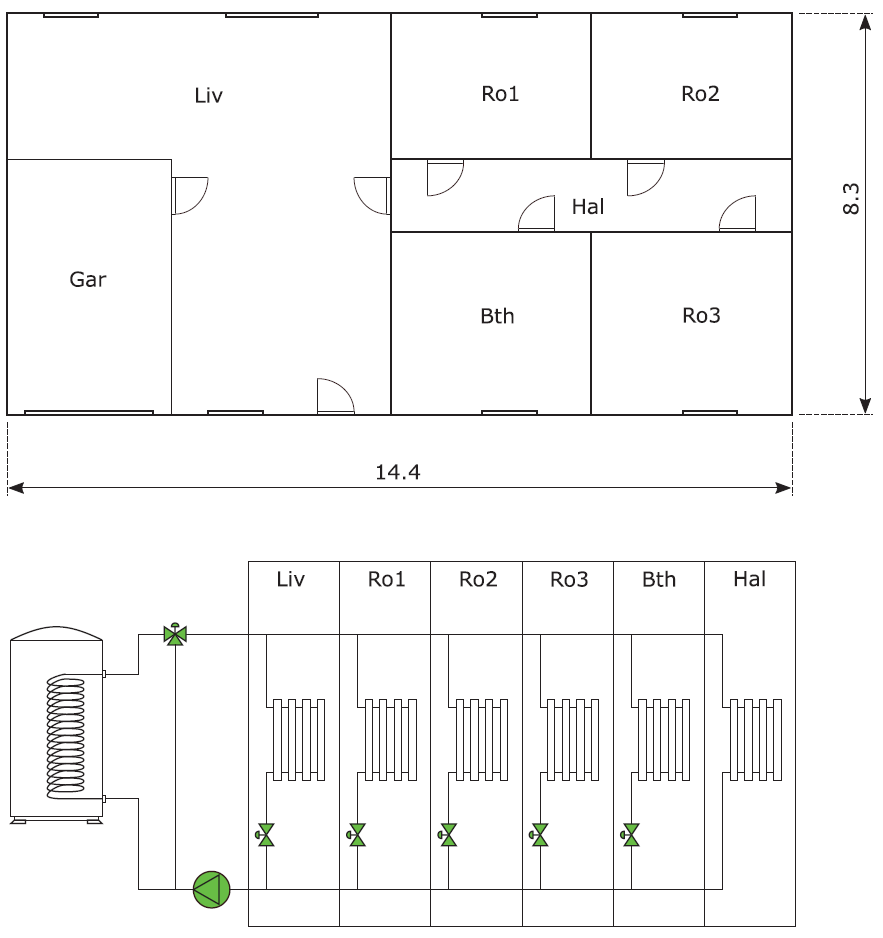
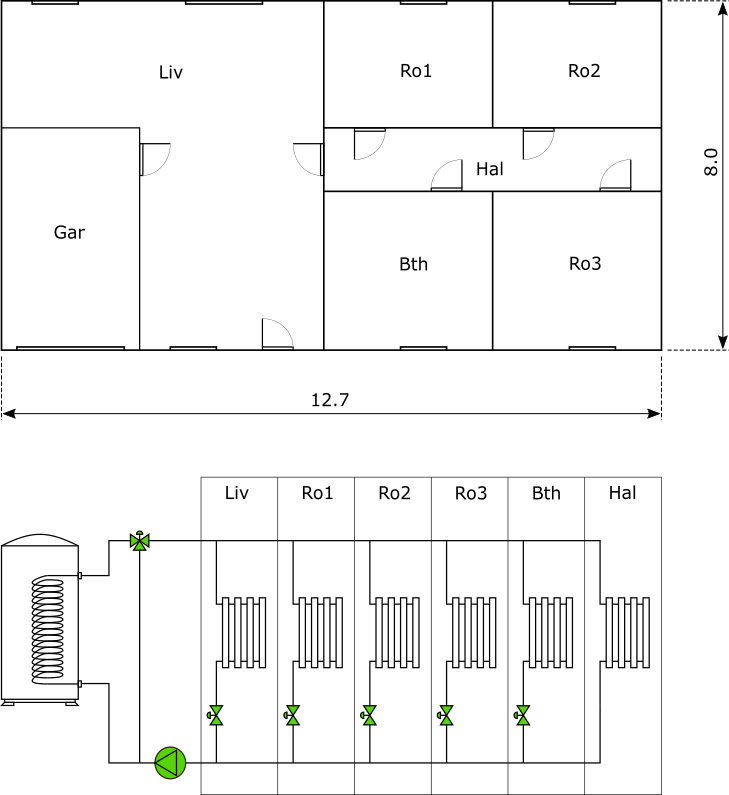
Pring updated test case documentation.

diff --git a/testcases/multizone_residential_hydronic/doc/MultiZoneResidentialHydronic.html b/testcases/multizone_residential_hydronic/doc/MultiZoneResidentialHydronic.html
@@ -1,4 +1,52 @@
+<!DOCTYPE HTML PUBLIC "-//W3C//DTD HTML 4.01 Transitional//EN" "http://www.w3.org/TR/html4/loose.dtd">
 <html>
+<head>
+<title>MultiZoneResidentialHydronic.TestCase</title>
+<meta name="HTML-Generator" content="Dymola">
+<meta http-equiv="Content-Type" content="text/html; charset=utf-8">
+<meta name="description" content="&quot;Multi zone residential hydronic example model&quot;">
+<style type="text/css">
+*       { font-size: 100%; font-family: Arial, sans-serif; }
+.modelica, .modelica * { font-size: 90%; font-family: Courier, monospace; white-space: pre; } /* For the Modelica code (in exported html). */
+h4      { font-size: 100%; font-weight: bold; color: green; } 
+h3      { font-size: 110%; font-weight: bold; color: green; }
+h2      { font-size: 130%; font-weight: bold; color: green; }
+address { font-weight: normal; }
+td      { padding: 2px; border: 1px solid #808080; vertical-align: top; }
+th      { padding: 2px; border: 1px solid #808080; vertical-align: top; font-weight: bold; }
+table   { border: 1px solid #808080; border-collapse: collapse; }
+pre, code {font-family: "Courier New", monospace;}
+pre {white-space: pre; overflow-x : hidden;}
+.ModelicaDescription {font-weight: bold;} /* For the description string of the class. */
+.ModelicaBaseClass {} /* For the list of base-classes at the of the description. */
+.ModelicaKeyword { color: blue; font-weight: normal; font-style: normal; } /* Keywords in Modelica. */
+.ModelicaComment { color: #006400;  font-weight: normal; font-style: normal;} /* All three variants of comments in Modelica.  */
+.ModelicaString { color: #006400;  font-weight: normal; font-style: normal;} /* String constants. */
+.ModelicaClass { color: red; font-weight: normal; font-style: normal;} /* Formatting the names of referenced classes (for base-class and components). */
+.ModelicaFunction { color: red; font-weight: normal; font-style: normal;} /* Formatting for called functions. */
+.ModelicaTablePackageContent { } /* The table of contents for each package. */
+.ModelicaTableCrossReference { } /* The optional cross-reference table. */
+.ModelicaTableInputs {} /* The table of inputs for a function. */
+.ModelicaTableOutputs {} /* The table of outputs for a function. */
+.ModelicaTableParameters {} /* The table of parameters for a model/block. */
+.ModelicaTableConnectors {} /* The table of connectors for a model/block. */
+.ModelicaTableContents {} /* The table of contents for a connector. */
+.ModelicaStartAttribute { font-weight: bold; } /* The formatting used for start-attribute in the table of parameters, to separate them from parameter values. */
+.ModelicaParameterTab { background-color: #c0c0c0; font-weight: bold; } /* The tab-heading in the table of parameters */
+.ModelicaParameterGroup { background-color: #e0e0e0; } /* The group-heading in the table of parameters */
+</style>
+</head>
+<body>
+<!--[if supportFields]><span style="mso-element:field-begin"></span>
+<span style="mso-spacerun:yes"></span>XE TestCase<![endif]-->
+<!--[if supportFields]><span style="mso-element:field-end"></span><![endif]-->
+<h2><img src="MultiZoneResidentialHydronic.TestCaseI.png" alt="MultiZoneResidentialHydronic.TestCase" align="right" style="border: 1px solid" width="80" height="80">
+<a name="MultiZoneResidentialHydronic.TestCase"></a>MultiZoneResidentialHydronic.TestCase</h2>
+<p>
+<span class="ModelicaDescription">Multi zone residential hydronic example model</span>
+</p>
+<h3>Information</h3>
+
 <p>
 This is the multi zone residential hydronic emulator model
 of BOPTEST.
@@ -10,20 +58,20 @@ The emulator building model represents a residential French
 dwelling compliant with the French Thermal regulation of 2012,
 i.e. the French national building energy regulation. Therefore,
 the typology is defined to be representative of French new
-dwellings. Its area is approximately 120 m&sup2; (<i>S_ref</i>).
+dwellings. Its area is approximately 100 m&sup2; (<i>S_ref</i>).
 The following figure shows the building layout and
 a sketch of the hydraulic system. The coloured elements in the scheme
 represent the controllable components
 through the BOPTEST interface. The dimensions are provided in metres.
 
 </p>
-<p align=\"center\">
-<img alt=\"Simulated residential dwelling\"
+<p align="center">
+<img alt="Simulated residential dwelling"
 src="images/layout.png">
 </p>
 
 <p>
-The orientation of the building was chosen to maximize the natural light during winter.
+The orientation of each building was chosen to maximize the natural light during winter.
 Thus, the main surface of windows of the building is south oriented.
 The building consists of six thermal zones that are actively controlled and two unconditioned
 zones:
@@ -43,42 +91,42 @@ modes existing on the market. Thus, each of these modes was characterized
 by a different level of insulation (Table 1).
 </p>
 
-<p><span style=\"font-family: Arial,sans-serif;\">Table 1.Building envelope characteristic</span> </p>
-<table cellspacing=\"0\" cellpadding=\"2\" border=\"1\" width=\"100%\"><tr>
-<td><p><br><b><span style=\"font-family: Arial,sans-serif; font-size: 10pt;\">Wall type </span></b></p></td>
-<td><p><b><span style=\"font-family: Arial,sans-serif; font-size: 10pt;\">Characteristics</span></b></p></td>
+<p><span style="font-family: Arial,sans-serif;">Table 1.Building envelope characteristic</span> </p>
+<table cellspacing="0" cellpadding="2" border="1" width="100%"><tr>
+<td><p><br><b><span style="font-family: Arial,sans-serif; font-size: 10pt;">Wall type </span></b></p></td>
+<td><p><b><span style="font-family: Arial,sans-serif; font-size: 10pt;">Characteristics</span></b></p></td>
 </tr>
 <tr>
-<td><p><b><span style=\"font-family: Arial,sans-serif; font-size: 10pt;\">External wall</span></b></p></td>
-<td><p><span style=\"font-family: Arial,sans-serif; font-size: 10pt;\">Brick (200 mm, &lambda;=0.2 W/mK) + polystyrene (80 mm, &lambda;=0.032 W/mK)</span></p></td>
-</tr>
-<tr>
-<td></td>
-<td><p><br><br><br><b><span style=\"font-family: Arial,sans-serif; font-size: 10pt;\">U = 0.272 W.m<sup>-2</sup>.K<sup>-1</span></b></sup></p></td>
-</tr>
-<tr>
-<td><p><b><span style=\"font-family: Arial,sans-serif; font-size: 10pt;\">Floor</span></b></p></td>
-<td><p><span style=\"font-family: Arial,sans-serif; font-size: 10pt;\">Hollow block (150 mm, &lambda;=0.92 W/mK) + polyurethane (60 mm, &lambda;=0.022 W/mK)</span></p></td>
+<td><p><b><span style="font-family: Arial,sans-serif; font-size: 10pt;">External wall</span></b></p></td>
+<td><p><span style="font-family: Arial,sans-serif; font-size: 10pt;">Brick (200 mm, &lambda;=0.2 W/mK) + polystyrene (80 mm, &lambda;=0.032 W/mK)</span></p></td>
 </tr>
 <tr>
 <td></td>
-<td><p><br><br><b><span style=\"font-family: Arial,sans-serif; font-size: 10pt;\">U<sub>e</sub> = 0.327 W.m<sup>-2</sup>.K<sup>-1</span></b></sup></p></td>
+<td><p><br><br><br><b><span style="font-family: Arial,sans-serif; font-size: 10pt;">U = 0.272 W.m<sup>-2</sup>.K<sup>-1</span></b></sup></p></td>
 </tr>
 <tr>
-<td><p><b><span style=\"font-family: Arial,sans-serif; font-size: 10pt;\">Ceiling</span></b></p></td>
-<td><p><span style=\"font-family: Arial,sans-serif; font-size: 10pt;\">Glass wool (200 mm, &lambda;=0.04 W/mK)</span></p></td>
-</tr>
-<tr>
-<td></td>
-<td><p><br><br><b><span style=\"font-family: Arial,sans-serif; font-size: 10pt;\">U = 0.193 W.m<sup>-2</sup>.K<sup>-1</span></b></sup></p></td>
-</tr>
-<tr>
-<td><p><b><span style=\"font-family: Arial,sans-serif; font-size: 10pt;\">Fenestration</span></b></p></td>
-<td><p><span style=\"font-size: 10pt;\">Double glazing with Argon and PVC frame 4/16/4, <span style=\"font-family: Arial,sans-serif;\">Planitherm glass g=0.6, TL=76&percnt; with external solar protection</span></p></td>
+<td><p><b><span style="font-family: Arial,sans-serif; font-size: 10pt;">Floor</span></b></p></td>
+<td><p><span style="font-family: Arial,sans-serif; font-size: 10pt;">Hollow block (150 mm, &lambda;=0.92 W/mK) + polyurethane (60 mm, &lambda;=0.022 W/mK)</span></p></td>
 </tr>
 <tr>
 <td></td>
-<td><p><br><br><b><span style=\"font-family: Arial,sans-serif; font-size: 10pt;\">U<sub>w</sub> = 1.40 W.m<sup>-2</sup>.K<sup>-1</span></b></sup></p></td>
+<td><p><br><br><b><span style="font-family: Arial,sans-serif; font-size: 10pt;">U<sub>e</sub> = 0.327 W.m<sup>-2</sup>.K<sup>-1</span></b></sup></p></td>
+</tr>
+<tr>
+<td><p><b><span style="font-family: Arial,sans-serif; font-size: 10pt;">Ceiling</span></b></p></td>
+<td><p><span style="font-family: Arial,sans-serif; font-size: 10pt;">Glass wool (200 mm, &lambda;=0.04 W/mK)</span></p></td>
+</tr>
+<tr>
+<td></td>
+<td><p><br><br><b><span style="font-family: Arial,sans-serif; font-size: 10pt;">U = 0.193 W.m<sup>-2</sup>.K<sup>-1</span></b></sup></p></td>
+</tr>
+<tr>
+<td><p><b><span style="font-family: Arial,sans-serif; font-size: 10pt;">Fenestration</span></b></p></td>
+<td><p><span style="font-size: 10pt;">Double glazing with Argon and PVC frame 4/16/4, <span style="font-family: Arial,sans-serif;">Planitherm glass g=0.6, TL=76&percnt; with external solar protection</span></p></td>
+</tr>
+<tr>
+<td></td>
+<td><p><br><br><b><span style="font-family: Arial,sans-serif; font-size: 10pt;">U<sub>w</sub> = 1.40 W.m<sup>-2</sup>.K<sup>-1</span></b></sup></p></td>
 </tr>
 </table>
 
@@ -584,16 +632,16 @@ End Time: Day 332.
 All pricing scenarios include the same constant value for transmission fees and taxes
 of each commodity. The used value is the typical price that household users pay
 for the network, taxes and levies, as calculateed by Eurostat and obtained from:
-<a href=\"https://eur-lex.europa.eu/legal-content/EN/TXT/PDF/?uri=CELEX:52020DC0951&from=EN\">
-\"The energy prices and costs in Europe report\"</a>.
+<a href="https://eur-lex.europa.eu/legal-content/EN/TXT/PDF/?uri=CELEX:52020DC0951&from=EN">
+"The energy prices and costs in Europe report"</a>.
 For the assumed location of the test case, this value is of
 0.125 EUR/kWh for electricity and of 0.042 for gas.
 </p>
 <h5>Constant electricity price profile</h5> (specifier for <code>/scenario</code> API is <code>'constant'</code>) profile is:
 <p>
 The constant electricity price scenario uses a constant price of 0.108 EUR/kWh,
-as obtained from the Engie's \"Elec Ajust\" deal before taxes (HTT) in
-<a href=\"https://particuliers.engie.fr/content/dam/pdf/fiches-descriptives/fiche-descriptive-elec-ajust.pdf\">
+as obtained from the Engie's "Elec Ajust" deal before taxes (HTT) in
+<a href="https://particuliers.engie.fr/content/dam/pdf/fiches-descriptives/fiche-descriptive-elec-ajust.pdf">
 https://particuliers.engie.fr/content/dam/pdf/fiches-descriptives/fiche-descriptive-elec-ajust.pdf</a>
 (accessed on July 2020).
 The tariff used is the one for households with contracted power installations higher than 6 kVA.
@@ -604,8 +652,8 @@ of 0.233 EUR/kWh.
 <p>
 The dynamic electricity price scenario uses a dual rate of 0.126 EUR/kWh during
 day time and 0.086 EUR/kWh during night time,
-as obtained from the the Engie's \"Elec Ajust\" deal before taxes (HTT) in
-<a href=\"https://particuliers.engie.fr/content/dam/pdf/fiches-descriptives/fiche-descriptive-elec-ajust.pdf\">
+as obtained from the the Engie's "Elec Ajust" deal before taxes (HTT) in
+<a href="https://particuliers.engie.fr/content/dam/pdf/fiches-descriptives/fiche-descriptive-elec-ajust.pdf">
 https://particuliers.engie.fr/content/dam/pdf/fiches-descriptives/fiche-descriptive-elec-ajust.pdf</a>
 (accessed on July 2020).
 The tariff used is the one for households with contracted power installations higher than 6 kVA.
@@ -618,10 +666,10 @@ of 0.251 EUR/kWh during on-peak periods and of 0.211 during off-peak periods.
 <p>
 For the highly dynamic scenario, the French day-ahead prices of 2019 are used.
 Obtained from:
-<a href=\"https://www.epexspot.com/en\">
+<a href="https://www.epexspot.com/en">
 https://www.epexspot.com/en</a>
 The prices are parsed and exported using this repository:
-<a href=\"https://github.com/JavierArroyoBastida/epex-spot-data\">
+<a href="https://github.com/JavierArroyoBastida/epex-spot-data">
 https://github.com/JavierArroyoBastida/epex-spot-data</a>.
 Notice that the same constant transmission fees and taxes of 0.125 EUR/kWh are
 added up on top of these prices.
@@ -629,8 +677,8 @@ added up on top of these prices.
 <h5>Gas price profile</h5>
 <p>
 The gas price is assumed constant and of 0.0491 EUR/kWh
-as obtained from the \"Gaz Energie Garantie 1 an\" deal for gas in
-<a href=\"https://particuliers.engie.fr/content/dam/pdf/fiches-descriptives/fiche-descriptive-sommaire-gaz-energie-garantie.pdf\">
+as obtained from the "Gaz Energie Garantie 1 an" deal for gas in
+<a href="https://particuliers.engie.fr/content/dam/pdf/fiches-descriptives/fiche-descriptive-sommaire-gaz-energie-garantie.pdf">
 https://particuliers.engie.fr/content/dam/pdf/fiches-descriptives/fiche-descriptive-sommaire-gaz-energie-garantie.pdf</a>
 (accessed on July 2020).
 Price before taxes (HTT) for a contracted anual tariff between 0 - 6000 kWh.
@@ -643,7 +691,7 @@ of 0.0911 EUR/kWh.
 It is used a constant emission factor for electricity of 0.047 kgCO2/kWh
 which is the grid electricity emission factor reported by the Association of Issuing Bodies (AIB)
 for year 2019 in France. For reference, see:
- <a href=\"https://www.carbonfootprint.com/docs/2019_06_emissions_factors_sources_for_2019_electricity.pdf\">
+ <a href="https://www.carbonfootprint.com/docs/2019_06_emissions_factors_sources_for_2019_electricity.pdf">
 https://www.carbonfootprint.com/docs/2019_06_emissions_factors_sources_for_2019_electricity.pdf</a>
 </p>
 <h5>Gas emissions factor profile</h5>
@@ -652,7 +700,50 @@ Based on the kgCO2 emitted per amount of natural gas burned in terms of
 energy content.  It is 0.18108 kgCO2/kWh (53.07 kgCO2/milBTU).
 For reference,
 see:
-<a href=\"https://www.eia.gov/environment/emissions/co2_vol_mass.php\">
+<a href="https://www.eia.gov/environment/emissions/co2_vol_mass.php">
 https://www.eia.gov/environment/emissions/co2_vol_mass.php</a>
 </p>
+
+<p><span class="ModelicaBaseClass">Extends from Modelica.Icons.Example (Icon for runnable examples).</span></p>
+<h3>Parameters</h3>
+<table summary="Parameters" class="ModelicaTableParameters">
+<tr><th>Name</th><th>Description</th></tr>
+<tr><td>S</td><td>Building surface [m2]</td></tr>
+<tr><td>OpenDoors</td><td>Doors opening - 0=closed, 1 = open</td></tr>
+<tr><td>TSup_nominal</td><td>Nominal supply temperature for radiators [K]</td></tr>
+<tr><td>TRet_nominal</td><td>Nominal return temperature for radiators [K]</td></tr>
+<tr><td>CeilingWall</td><td>&nbsp;</td></tr>
+<tr><td>IntWall</td><td>Murs intrieurs</td></tr>
+<tr><td>FloorWall</td><td>&nbsp;</td></tr>
+<tr><td>ExtWall</td><td>Murs extrieurs</td></tr>
+<tr><td>Window</td><td>&nbsp;</td></tr>
+<tr class="ModelicaParameterGroup"><td colspan="2">Boiler</td></tr>
+<tr><td>Q_flow_nominal</td><td>Nominal power of heating plant [W]</td></tr>
+<tr><td>scaFacRad</td><td>Scaling factor to scale the power (and mass flow rate) of the radiator loop</td></tr>
+<tr><td>dTBoi_nominal</td><td>Nominal temperature difference for boiler loop [K]</td></tr>
+<tr><td>mBoi_flow_nominal</td><td>Nominal mass flow rate of boiler loop [kg/s]</td></tr>
+<tr><td>P_pum_nominal</td><td>Pump electrical power [W]</td></tr>
+<tr class="ModelicaParameterGroup"><td colspan="2">Chauffage</td></tr>
+<tr><td>Pmin_Ch</td><td>Boiler minimum power [W]</td></tr>
+<tr><td>Pmax_Ch</td><td>Boiler maximum power [W]</td></tr>
+<tr class="ModelicaParameterGroup"><td colspan="2">Cractristiques de la chaudire</td></tr>
+<tr><td>t_anticourtcycle</td><td>Anti short cycle duration for the boiler [s]</td></tr>
+<tr class="ModelicaParameterGroup"><td colspan="2">Radiators</td></tr>
+<tr><td>delta_ST_rad</td><td>Coefficient for spatial variation of the control system</td></tr>
+<tr><td>Q_rad_liv</td><td>Living room radiator power [W]</td></tr>
+<tr><td>Q_rad_ro1</td><td>Room 1 radiator power [W]</td></tr>
+<tr><td>Q_rad_ro2</td><td>Room 2 radiator power2 [W]</td></tr>
+<tr><td>Q_rad_ro3</td><td>Room 3 radiator power [W]</td></tr>
+<tr><td>Q_rad_bth</td><td>Bathroom radiator power [W]</td></tr>
+<tr><td>Q_rad_hal</td><td>Hall radiator power [W]</td></tr>
+</table>
+<h3>Connectors</h3>
+<table summary="Connectors" class="ModelicaTableConnectors">
+<tr><th>Name</th><th>Description</th></tr>
+<tr><td>weaBus</td><td>&nbsp;</td></tr>
+</table>
+<address>
+<a href="http://www.3ds.com/">Automatically generated</a> Mon Jun  7 17:34:04 2021.
+</address>
+</body>
 </html>
